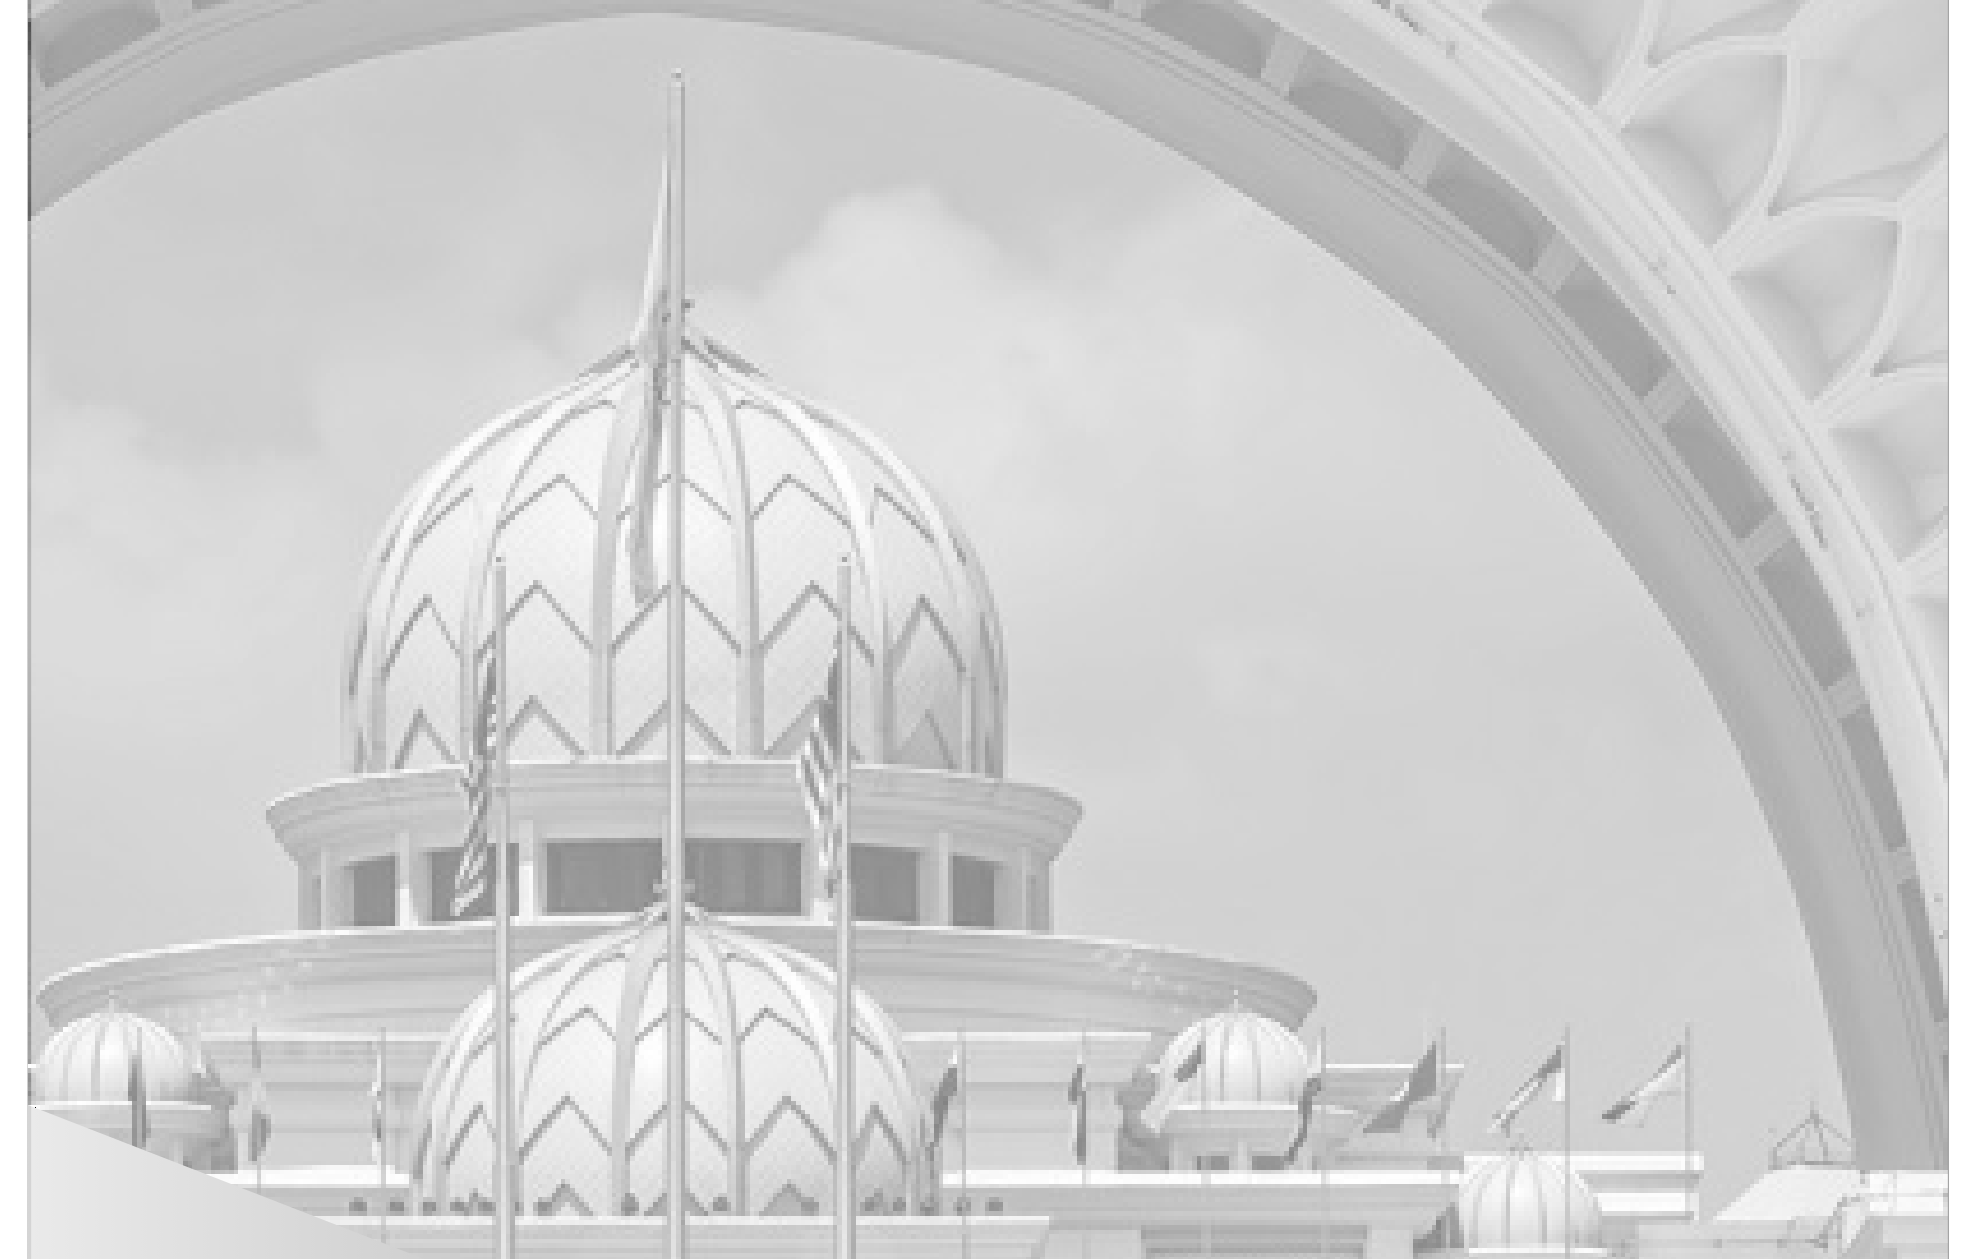
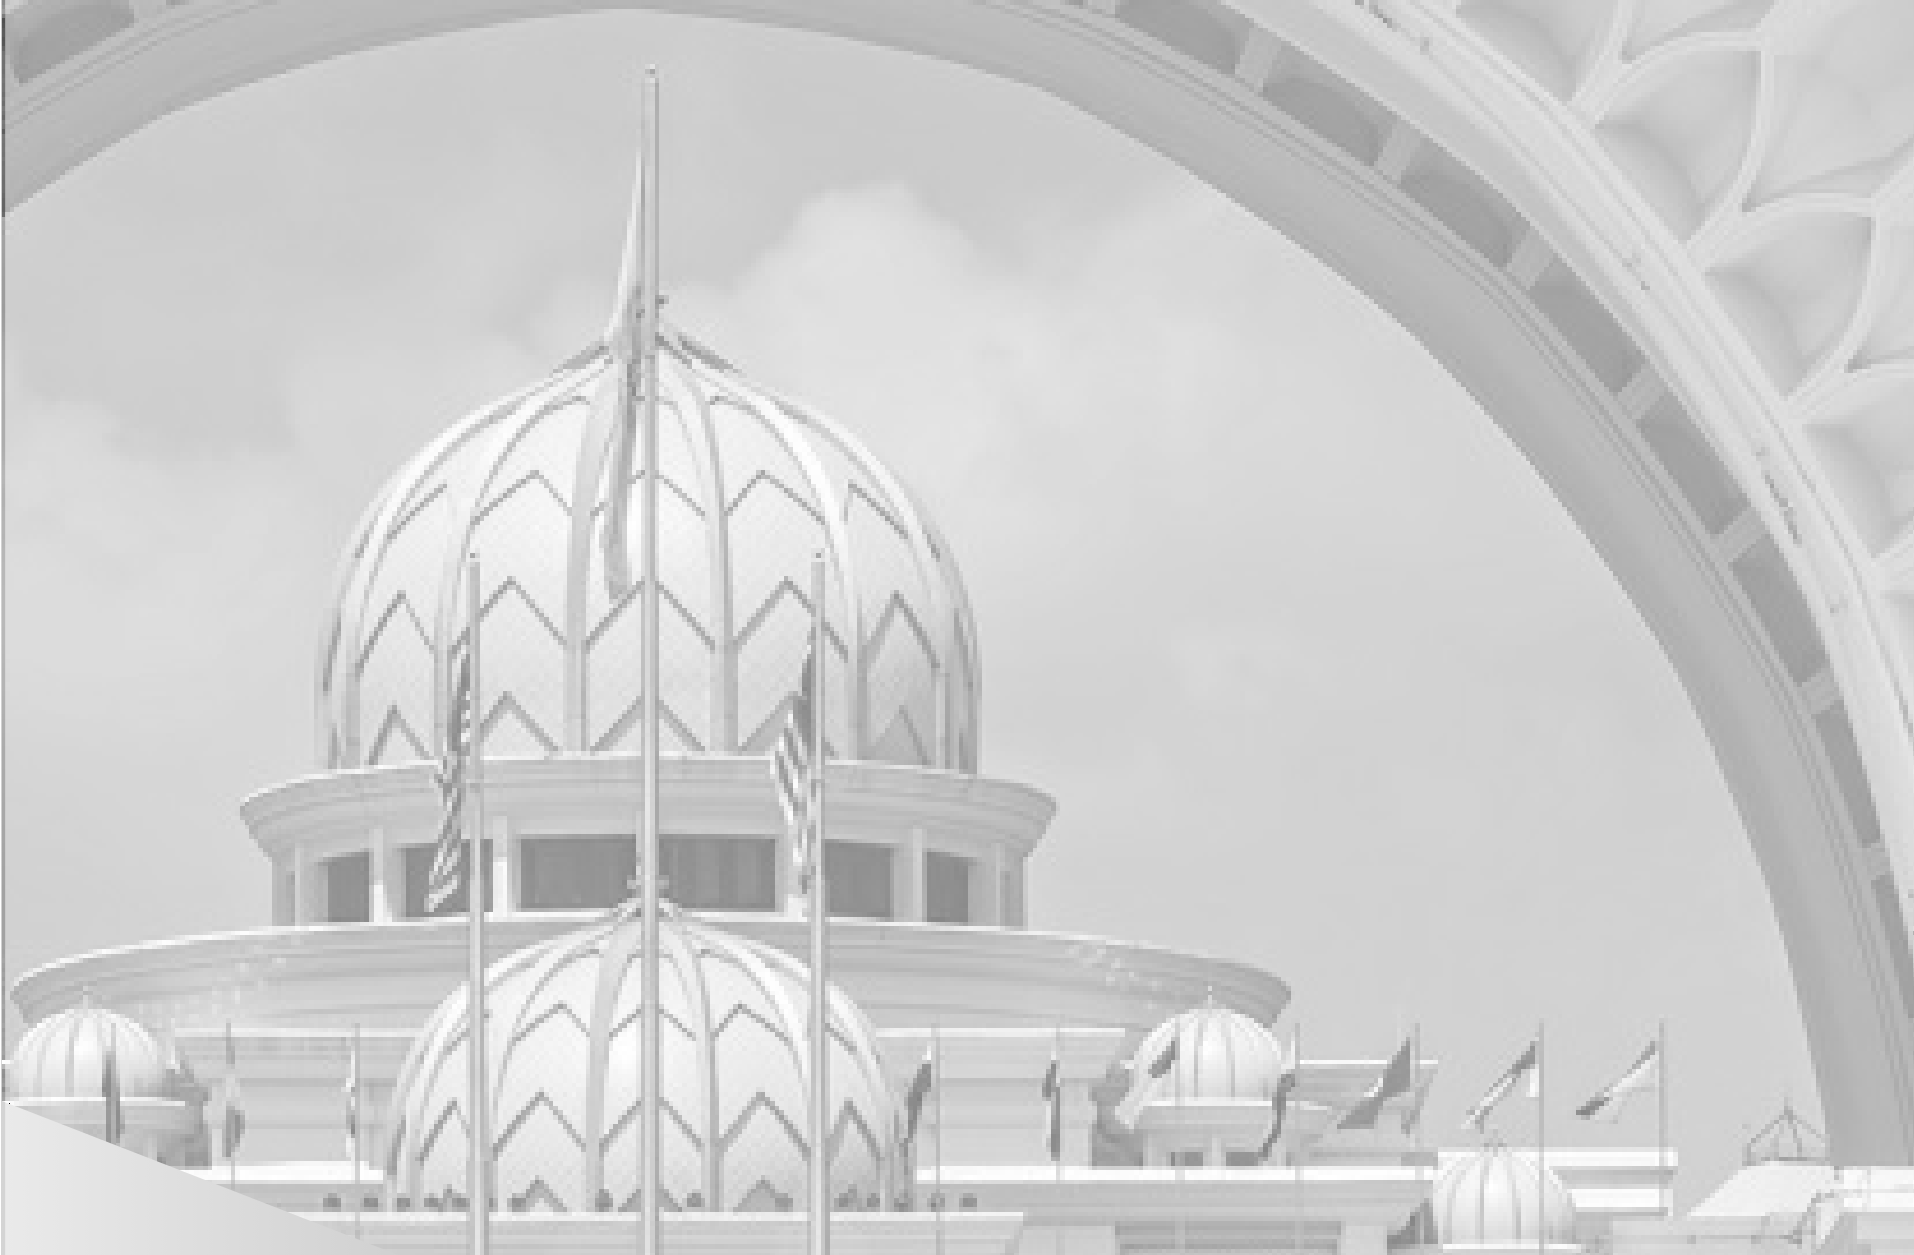
added property development page

diff --git a/src/assets/styles/propertydevelopment.scss b/src/assets/styles/propertydevelopment.scss
@@ -9,5 +9,37 @@
 *
 */
 .--property-development {
-    
+    background: url("../images/propertydevelopment/PropertyDev_BG-01.png") top -1vw center;
+    background-size: 103vw auto;
+    background-repeat: no-repeat;
+    background-attachment: scroll;
+    transition: background 0.3s;
+    image-rendering: -webkit-optimize-contrast;
+    .--bg-1 {
+        padding: 10vw 0 5vw 0;
+        min-height: 51vw;
+        margin-top: -9.1vw;
+        width: 100%;
+        .--title {
+            font-family: "gill sans",sans-serif !important;
+            letter-spacing: 0.4vw;
+            font-weight: 600 !important;
+            text-transform: uppercase;
+            line-height: 3.1vw;
+            font-size: 2vw;
+            color: #283a97;
+            margin: 6vw 0 2.5vw 0;
+            text-align: center;
+        }
+        .--desc {
+            font-family: "gill sans",sans-serif;
+            font-weight: 600 !important;
+            margin-bottom: 9.4vw;
+            font-size: 1.25vw;
+            color: #676ab0;
+            line-height: 2.4vw;
+            text-align: center;
+            letter-spacing: 0.25vw;
+        }
+    }
 }

diff --git a/src/views/PorpertyDevelopment.js b/src/views/PorpertyDevelopment.js
@@ -5,7 +5,19 @@ import '../assets/styles/propertydevelopment.scss';
 function PorpertyDevelopment() {
   return (
     <div className="--property-development">
-      <h1>Porperty Development</h1>
+      <div className="--bg-1">
+        <Container>
+          <Row>
+            <Col>
+              <h1 className="--title">Property Development</h1>
+              <p className="--desc">With over 50 years of combined experience in development, we have designed <br/>
+              and built a multitude of complex skycrapers, hospitals, modern retail spaces <br/>
+              nad highquality homes, with our crowning glory being the construction of <br/>
+              Istana Negara, the National Palace of Malaysia.</p>
+            </Col>
+          </Row>
+        </Container>
+      </div>
     </div>
   );
 }
